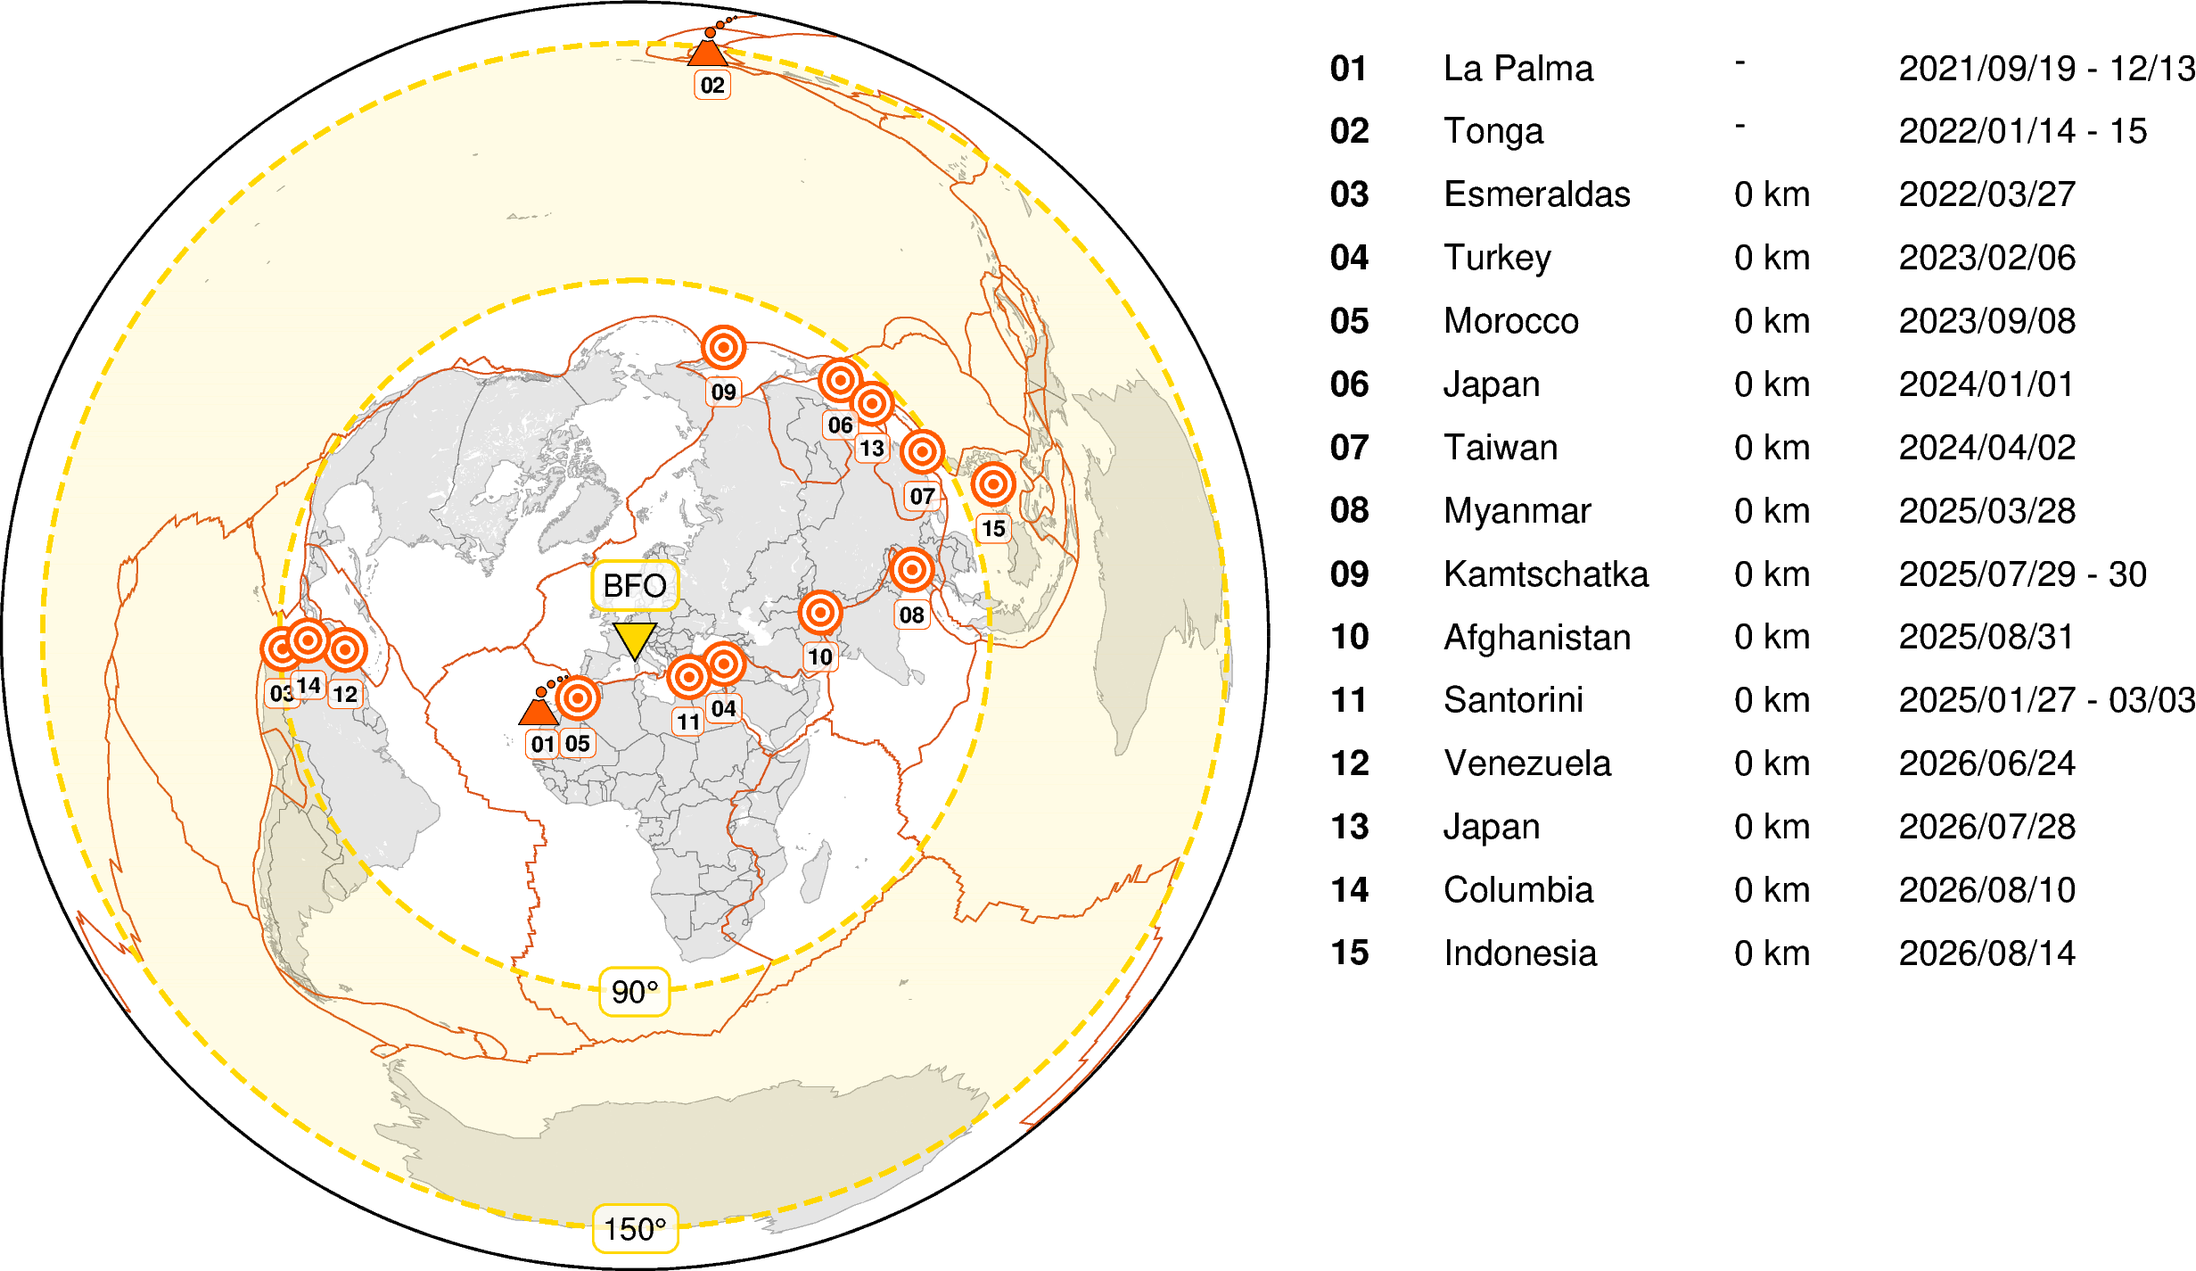
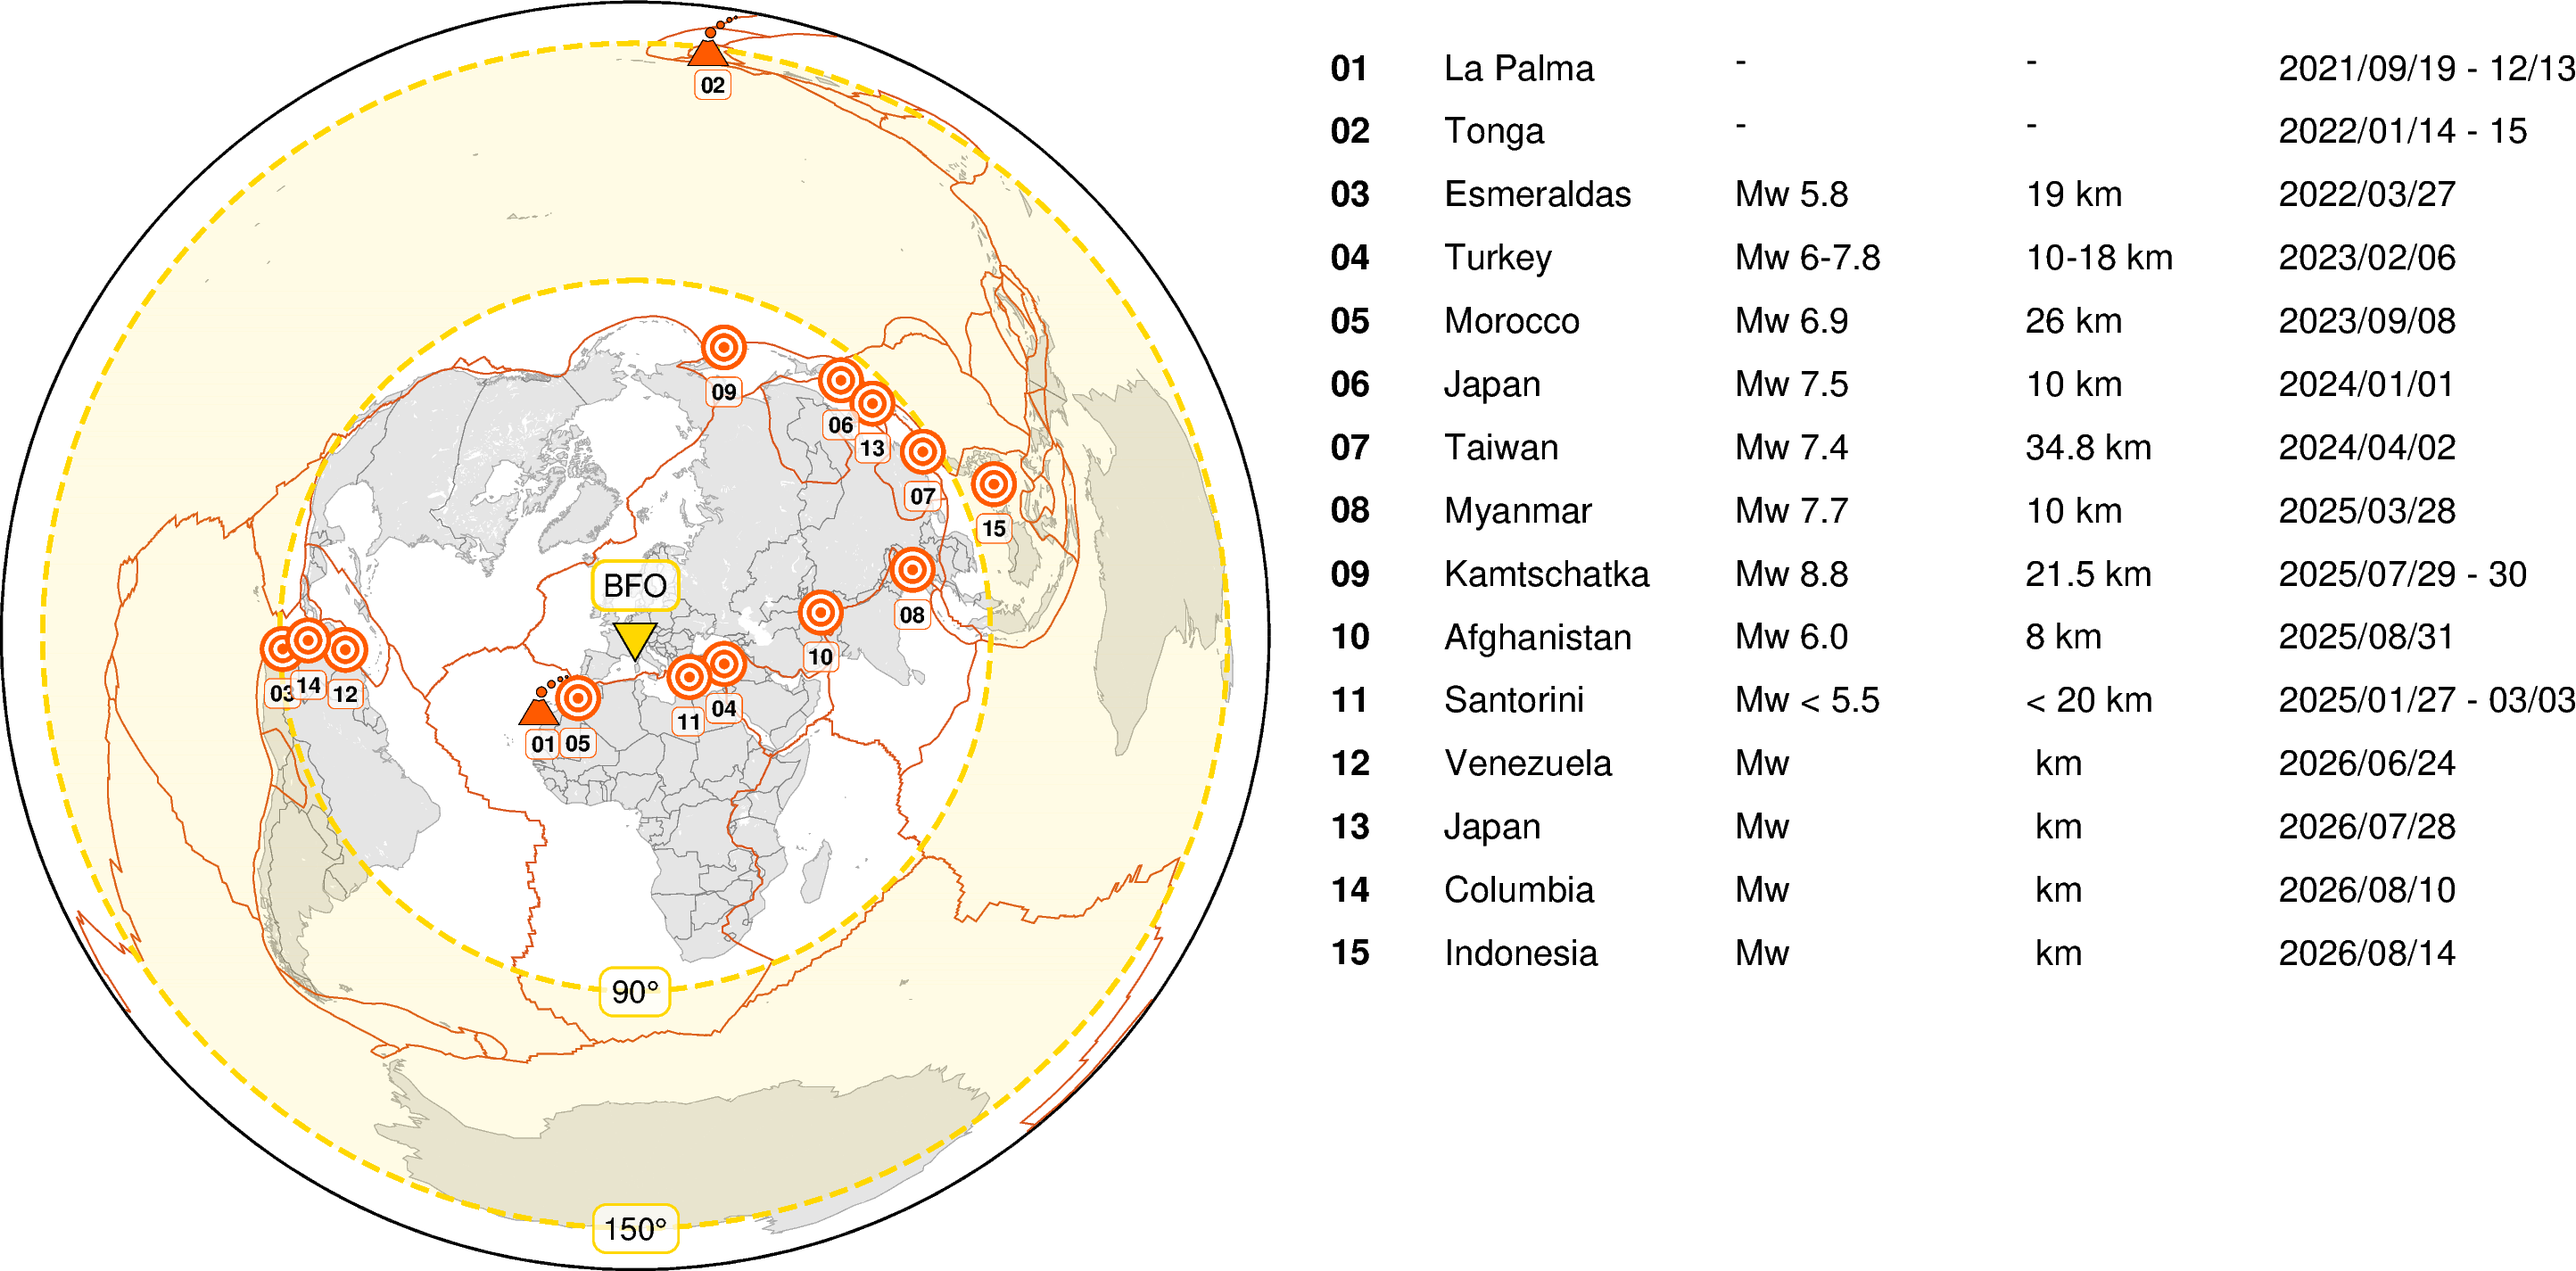
Add column Mw

diff --git a/004_earthquakes_eruptions/00_overview_events_BFO.py b/004_earthquakes_eruptions/00_overview_events_BFO.py
@@ -109,8 +109,12 @@ df_events = pd.DataFrame(
             52.512, 34.519, 36.42, 10.46, 32.682, 4.844, 8.310,
         ],
         "depth": [
-            "-", "-", "0 km", "0 km", "0 km", "0 km", "0 km", "0 km",
-            "0 km", "0 km", "0 km", "0 km", "0 km", "0 km", "0 km",
+            "-", "-", "19 km", "10-18 km", "26 km", "10 km", "34.8 km", "10 km",
+            "21.5 km", "8 km", "< 20 km", " km", " km", " km", " km",
+        ],
+        "magnitude": [
+            "-", "-", "Mw 5.8", "Mw 6-7.8", "Mw 6.9", "Mw 7.5", "Mw 7.4", "Mw 7.7",
+            "Mw 8.8", "Mw 6.0", "Mw < 5.5", "Mw ", "Mw ", "Mw ", "Mw ",
         ],
         "event_id": [
             "01", "02", "03", "04", "05", "06", "07", "08",
@@ -251,9 +255,9 @@ if add_list == True:
         yoffset = -0.5 * (i_event + 1)
 
         for text, xoffset, font in zip(
-            ["event_id", "location", "depth", "date"],
-            [0.5, 1.4, 3.7, 5],
-            ["8p,1", "8p", "8p", "8p"],
+            ["event_id", "location", "magnitude", "depth", "date"],
+            [0.5, 1.4, 3.7, 6, 8],
+            ["8p,1", "8p", "8p", "8p", "8p"],
         ):
 
             fig.text(

diff --git a/004_earthquakes_eruptions/README.md b/004_earthquakes_eruptions/README.md
@@ -4,9 +4,9 @@ _Recommended versions_: PyGMT v0.18.0, GMT 6.6.0
 
 | Code | Location | Depth / km | Date | Time (UTC) |
 | --- | --- | --- | --- | --- |
-| **[00_overview_events_BFO.py](https://github.com/yvonnefroehlich/gmt-pygmt-plotting/blob/main/004_earthquakes_eruptions/00_overview_events_BFO.py)**         | Global        | 0 | 2021 - present     | - |
-| **[01_la_palma_eruption.py](https://github.com/yvonnefroehlich/gmt-pygmt-plotting/blob/main/004_earthquakes_eruptions/01_la_palma_eruption.py)**             | La Palma      | 0 | 2021/09/19 - 12/13 | - |
-| **[02_tonga_eruption.py](https://github.com/yvonnefroehlich/gmt-pygmt-plotting/blob/main/004_earthquakes_eruptions/02_tonga_eruption.py)**                   | Tonga         | 0 | 2022/01/14 - 15    | - |
+| **[00_overview_events_BFO.py](https://github.com/yvonnefroehlich/gmt-pygmt-plotting/blob/main/004_earthquakes_eruptions/00_overview_events_BFO.py)**         | Global        | - | 2021 - present     | - |
+| **[01_la_palma_eruption.py](https://github.com/yvonnefroehlich/gmt-pygmt-plotting/blob/main/004_earthquakes_eruptions/01_la_palma_eruption.py)**             | La Palma      | - | 2021/09/19 - 12/13 | - |
+| **[02_tonga_eruption.py](https://github.com/yvonnefroehlich/gmt-pygmt-plotting/blob/main/004_earthquakes_eruptions/02_tonga_eruption.py)**                   | Tonga         | - | 2022/01/14 - 15    | - |
 | **[03_esmeraldas_earthquake.py](https://github.com/yvonnefroehlich/gmt-pygmt-plotting/blob/main/004_earthquakes_eruptions/03_esmeraldas_earthquake.py)**     | Esmeraldas    | 0 | 2022/03/27         | 04:28        |
 | **[04_turkey_earthquakes.py](https://github.com/yvonnefroehlich/gmt-pygmt-plotting/blob/main/004_earthquakes_eruptions/04_turkey_earthquakes.py)**           | Turkey        | 0 | 2023/02/06         | 01:17, 10:24 |
 | **[05_morocco_earthquake.py](https://github.com/yvonnefroehlich/gmt-pygmt-plotting/blob/main/004_earthquakes_eruptions/05_morocco_earthquake.py)**           | Morocco       | 0 | 2023/09/08         | 22:11        |
